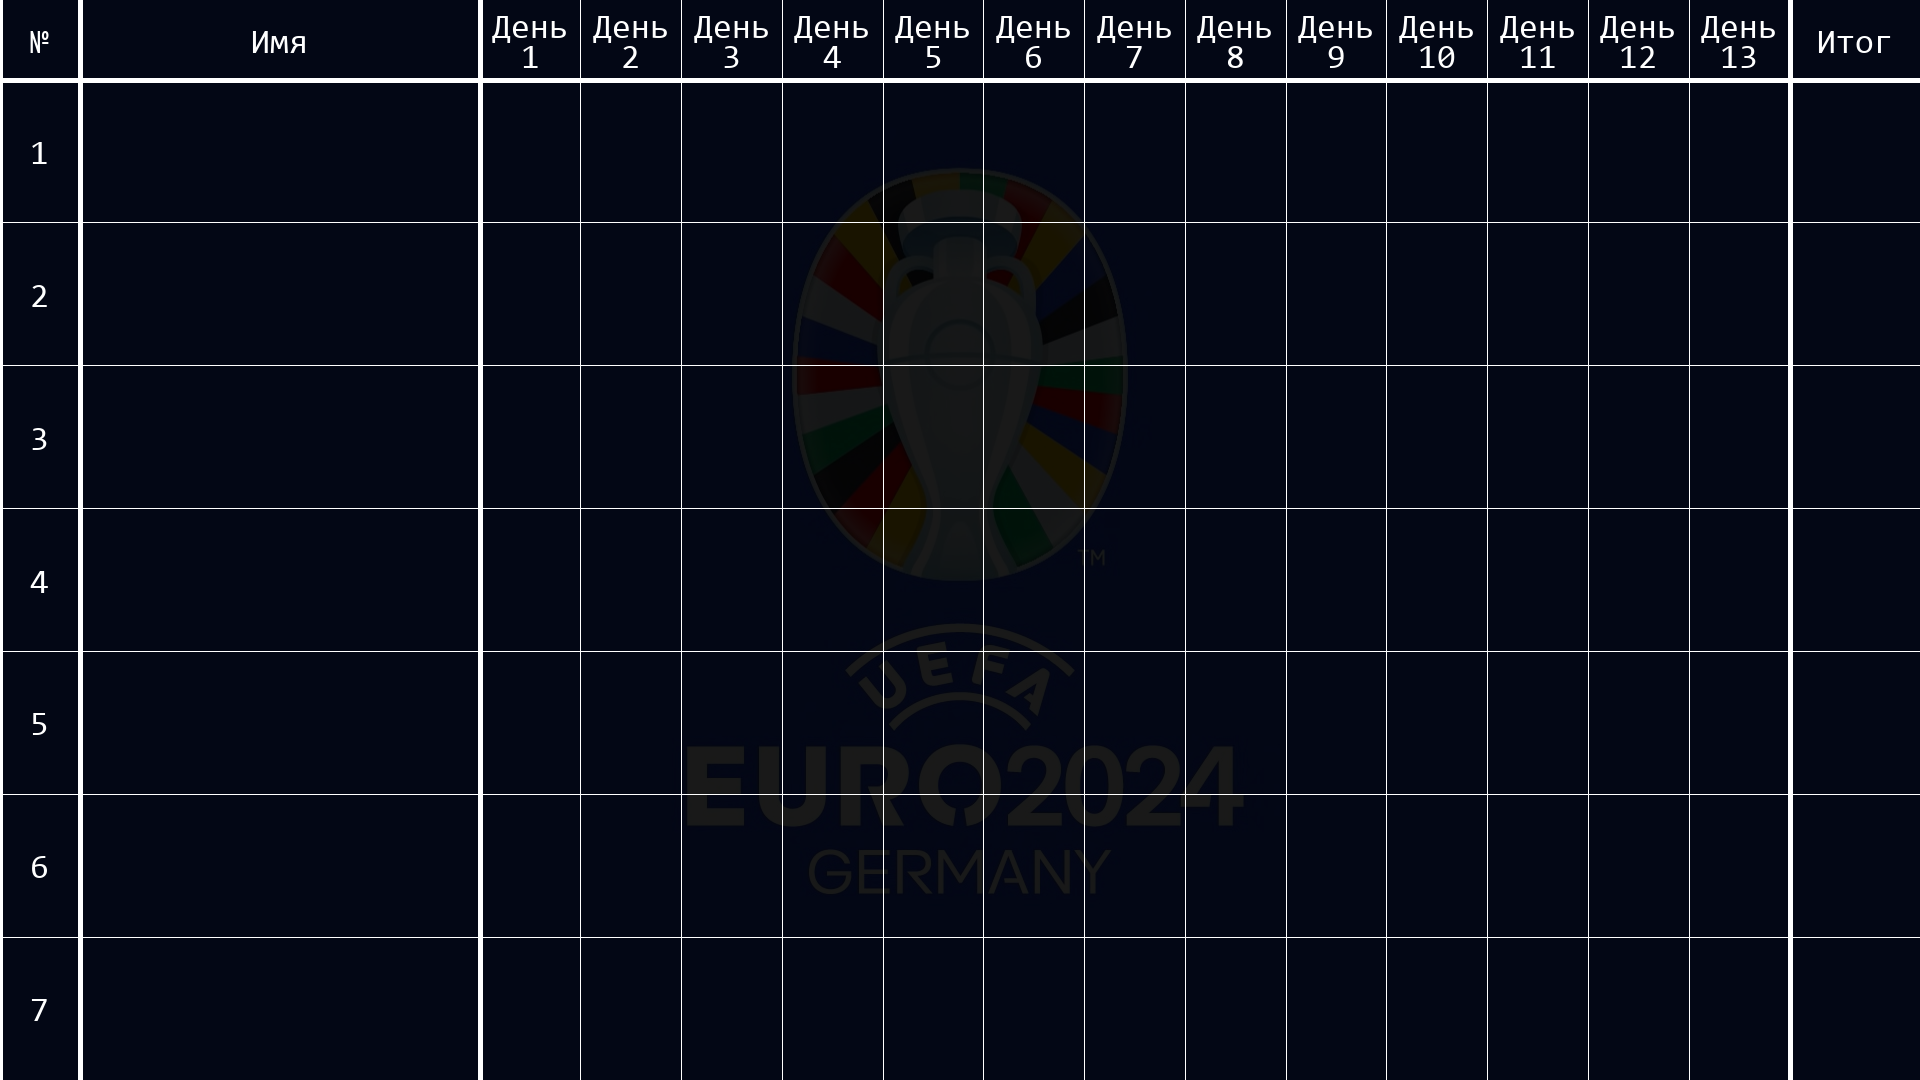
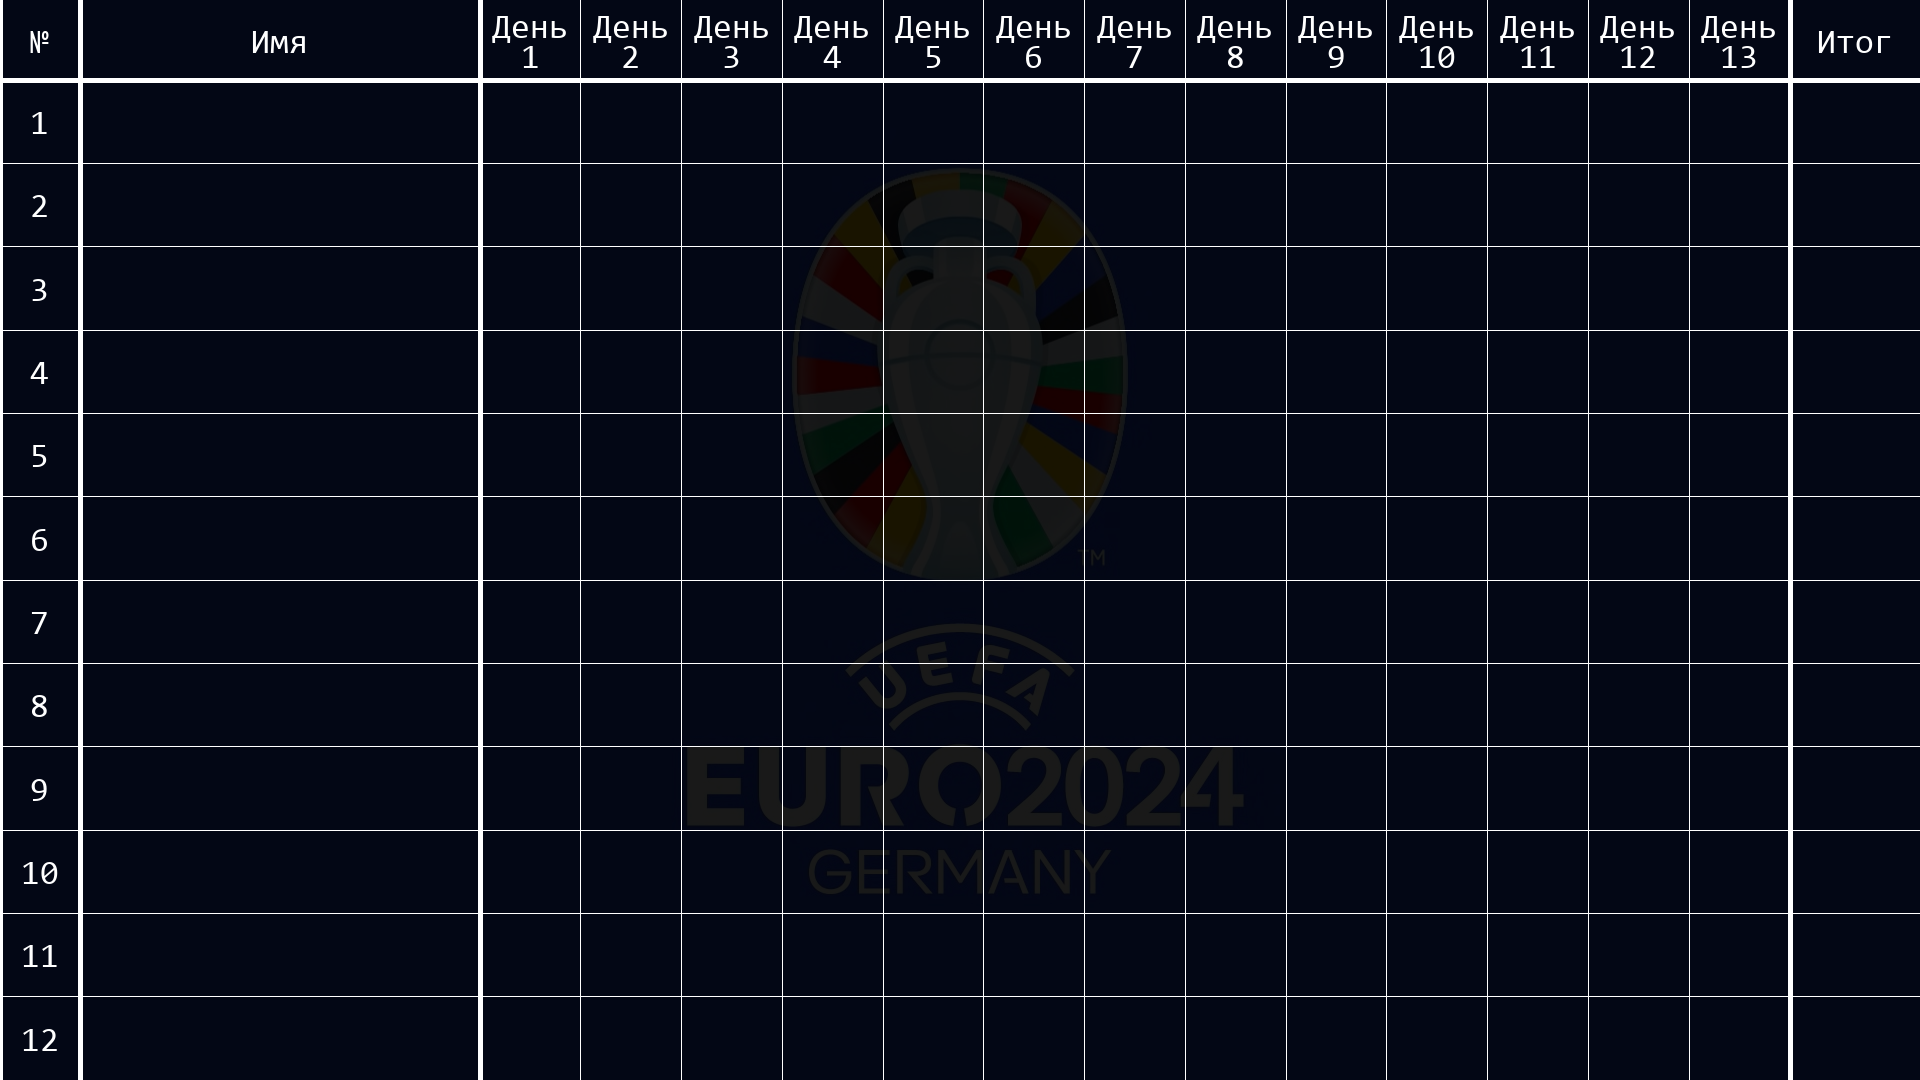
image create

diff --git a/config_data/config.py b/config_data/config.py
@@ -17,7 +17,7 @@ ADMIN_ID2 = os.getenv("ADMIN_ID2")
 
 NUMBER_OF_TOUR = 13
 SUM_COLUMN = 3
-NUMBER_OF_PLAYERS = 7
+NUMBER_OF_PLAYERS = 12
 COUNT_MATCHES_IN_TOUR = 4
 TOUR1_COLUMN = 4
 NICKNAME_COLUMN = 0 
